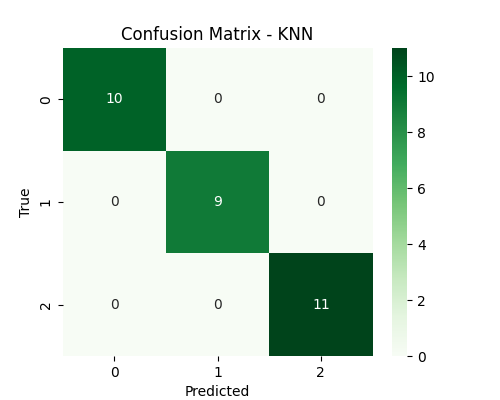
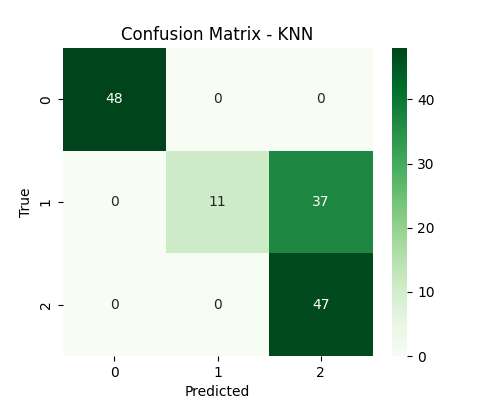
Changes in train test split

diff --git a/src/train_svm.py b/src/train_svm.py
@@ -23,7 +23,7 @@ if not results_dir.exists():
 # Load dataset
 X, y = load_iris(return_X_y=True)
 X_train, X_test, y_train, y_test = train_test_split(
-    X, y, test_size=0.2, random_state=42
+    X, y, test_size=0.95, random_state=42
 )
 
 # Train model (linear kernel keeps size small)

diff --git a/src/train_knn.py b/src/train_knn.py
@@ -23,7 +23,7 @@ if not results_dir.exists():
 # Load dataset
 X, y = load_iris(return_X_y=True)
 X_train, X_test, y_train, y_test = train_test_split(
-    X, y, test_size=0.2, random_state=42
+    X, y, test_size=0.95, random_state=42
 )
 
 # Train model (default k=5)

diff --git a/src/train_logistic_regression.py b/src/train_logistic_regression.py
@@ -24,7 +24,7 @@ if not results_dir.exists():
 # Load dataset
 X, y = load_iris(return_X_y=True)
 X_train, X_test, y_train, y_test = train_test_split(
-    X, y, test_size=0.2, random_state=42
+    X, y, test_size=0.95, random_state=42
 )
 
 # Train model
